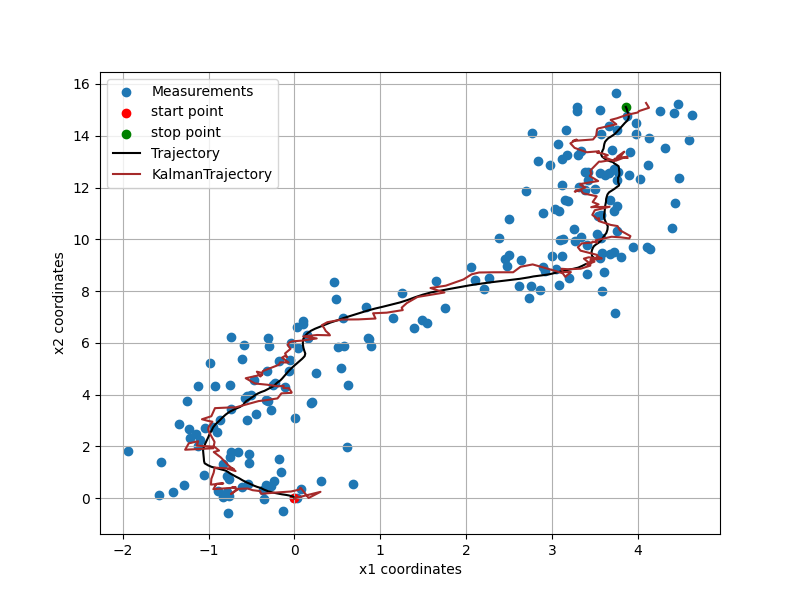
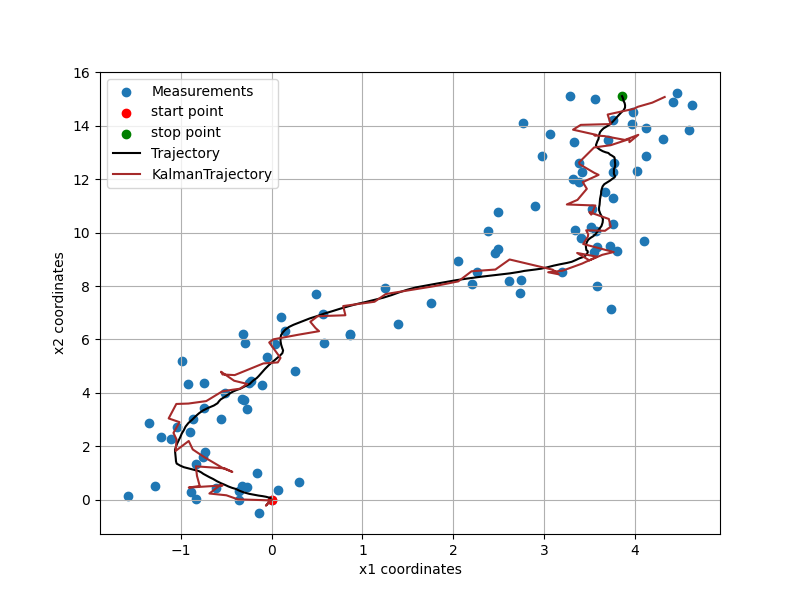
Add files via upload

diff --git a/Kalman/KalmanFiltering.py b/Kalman/KalmanFiltering.py
@@ -7,6 +7,7 @@ np.random.seed(1992)
 NumSteps = 201
 TimeScale = np.linspace(0,10,NumSteps)
 DeltaSim = np.diff(TimeScale)[0]
+#DeltaSim = 0.1
 SigmaInput = 1
 SigmaNoise = 0.5
 F = np.array([[1,0,DeltaSim,0],[0,1,0,DeltaSim],[0,0,1,0],[0,0,0,1]])
@@ -27,23 +28,29 @@ for t in np.arange(1,NumSteps):
 StateX1 = State[0,:]
 StateX2 = State[1,:]
 DownSampling = 2
-NoisyMeasurements2 = NoisyMeasurements[:,::DownSampling]
+NoisyMeasurements = NoisyMeasurements[:,::DownSampling]
 MeasurementY1 = NoisyMeasurements[0,:]
 MeasurementY2 = NoisyMeasurements[1,:]
 
+Delta = 0.1
+Fk = np.array([[1,0,Delta,0],[0,1,0,Delta],[0,0,1,0],[0,0,0,1]])
+Qk = SigmaInput**2 * np.array([[Delta**3/3,0,Delta**2/2,0],
+[0,Delta**3/3,0,Delta**2/2],
+[Delta**2/2,0,Delta,0],
+[0,Delta**2/2,0,Delta]])
+NumDown = 101
 ## Construct Kalman Filter 
 # Initialization
-KalmanMeasurements = np.zeros((4,NumSteps))
-KalmanP = np.zeros((4,4,NumSteps))
-Innovation = np.zeros((2,NumSteps))
-KalmanF = np.zeros((4,2,NumSteps))
-ConditionalX = np.zeros((4,NumSteps))
-ConditionalP = np.zeros((4,4,NumSteps))
+KalmanMeasurements = np.zeros((4,NumDown))
+KalmanP = np.zeros((4,4,NumDown))
+Innovation = np.zeros((2,NumDown))
+KalmanF = np.zeros((4,2,NumDown))
+ConditionalX = np.zeros((4,NumDown))
+ConditionalP = np.zeros((4,4,NumDown))
 
-print(ConditionalP.shape)
 ConditionalP[:,:,0]=np.identity(4)
 
-for t in np.arange(0,NumSteps-1):
+for t in np.arange(0,NumDown-1):
     # Compute Innvoation
     Innovation[:,t] = NoisyMeasurements[:,t]-H@ConditionalX[:,t]
     KalmanF[:,:,t] = ConditionalP[:,:,t]@np.transpose(H)@np.linalg.inv(H@ConditionalP[:,:,t]@np.transpose(H)+R)
@@ -51,8 +58,8 @@ for t in np.arange(0,NumSteps-1):
     KalmanMeasurements[:,t] = ConditionalX[:,t]+KalmanF[:,:,t]@Innovation[:,t]
     KalmanP[:,:,t] = ConditionalP[:,:,t]-KalmanF[:,:,t]@H@ConditionalP[:,:,t]
     # Prediction on Conditional X and P
-    ConditionalX[:,t+1]=F@KalmanMeasurements[:,t]
-    ConditionalP[:,:,t+1]=F@KalmanP[:,:,t]@np.transpose(F)+Q
+    ConditionalX[:,t+1]=Fk@KalmanMeasurements[:,t]
+    ConditionalP[:,:,t+1]=Fk@KalmanP[:,:,t]@np.transpose(Fk)+Qk
 
 Kalman1=KalmanMeasurements[0,0:-1]
 Kalman2=KalmanMeasurements[1,0:-1]
@@ -68,12 +75,13 @@ plt.xlabel('x1 coordinates');plt.ylabel('x2 coordinates')
 plt.grid(True)
 plt.show()
 
+print(State.shape)
 ## Calculate Measurement rms
 rms = 0
 rmsK = 0
-for t in np.arange(0,NumSteps-2):
-    rms = rms + (StateX1[t]-MeasurementY1[t])**2+(StateX2[t]-MeasurementY2[t])**2
-    rmsK = rmsK + (StateX1[t]-Kalman1[t])**2+(StateX2[t]-Kalman2[t])**2
+for t in np.arange(0,NumDown-1):
+    rms = rms + (StateX1[2*t]-MeasurementY1[t])**2+(StateX2[2*t]-MeasurementY2[t])**2
+    rmsK = rmsK + (StateX1[2*t]-Kalman1[t])**2+(StateX2[2*t]-Kalman2[t])**2
 
 rms = math.sqrt(rms)
 rmsK = math.sqrt(rmsK)
